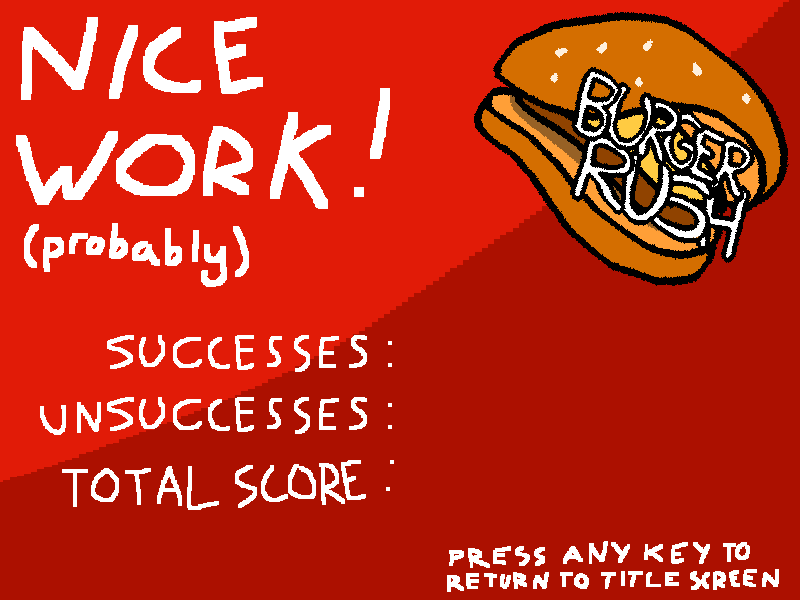
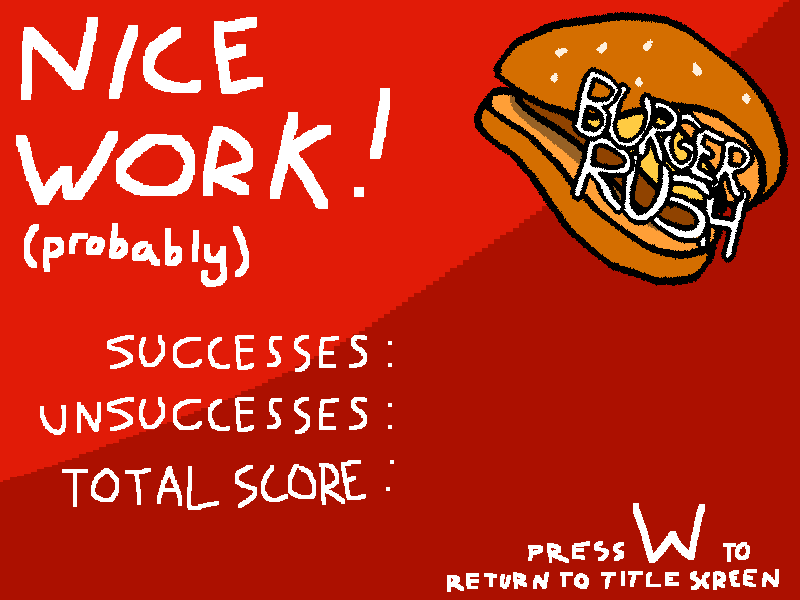
adjust event listeners to remove themselves more efficiently and remove last few console messages

Changed region(s): [[0.5625, 0.84, 0.9062, 0.96]]

diff --git a/js/game-state.js b/js/game-state.js
@@ -129,17 +129,21 @@ const gameStateManager = () => {
             ctx.drawImage(titleScreen, 0, 0)
         }, 60)
         // includes listener for keypress that ends interval using return from titleID and starts playManager
-        document.addEventListener('keydown', function () {
-            clearInterval(titleID)
-            console.log(`titleManager interval cleared`)
-            playManager()
-        }, {once: true})
+        document.addEventListener('keydown', function (e) {
+            if (e.key == 'w') {
+                clearInterval(titleID)
+                // console.log(`titleManager interval cleared`)
+                playManager()
+                this.removeEventListener('keydown', arguments.callee)
+            }
+            
+        })
     }
 ///////////////////////////////////////////////GAMEPLAY MANAGER//////////////////////////////////////////////////////
 /////////////////////////////////////////////////////////////////////////////////////////////////////////////////////
     // playManager function that runs when triggered from titleManager event listener
     const playManager = () => {
-        console.log(`playManager running`)
+        // console.log(`playManager running`)
         // define player class
         class Player {
             constructor(x, y) {
@@ -473,7 +477,7 @@ const gameStateManager = () => {
         countDown(timer)
         setTimeout(() => {
             clearInterval(playID)
-            console.log(`playManager interval cleared`)
+            // console.log(`playManager interval cleared`)
             ctx.fillStyle = 'white'
             ctx.drawImage(uiGameOver, 150, 100)
             setTimeout(resultsManager, 2000)
@@ -497,12 +501,15 @@ const gameStateManager = () => {
             ctx.fillText(`${score}`, 410, 500)
         }, 60)
         // includes event listener for keypress that ends interval using return from resultsID and starts titleManager again
-        document.addEventListener('keydown', function () {
-            clearInterval(resultsID)
-            console.log(`resultsManager interval cleared`)
-            resetUI()
-            titleManager()
-        }, {once: true})
+        document.addEventListener('keydown', function (e) {
+            if (e.key == 'w') {
+                clearInterval(resultsID)
+                // console.log(`resultsManager interval cleared`)
+                resetUI()
+                titleManager()
+                this.removeEventListener('keydown', arguments.callee)
+            }
+        })
     }
     // call titleManager to begin loop
     titleManager()
